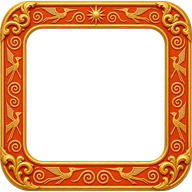
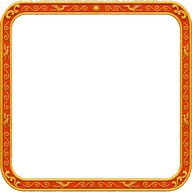
feat(art): bóng 9 ô trống, khung phẩm Cam mới
Claude-Session: https://claude.ai/code/session_013ZWRLisXAVjT81wrFGu3qT

diff --git a/src/app/game/profile/HeroDetail.tsx b/src/app/game/profile/HeroDetail.tsx
@@ -35,7 +35,7 @@ import {
   type ProfileAction,
   type SkillDef,
 } from "@/core";
-import { GearIcon, SetEmblem } from "../art/gear";
+import { EmptySlotIcon, GearIcon, SetEmblem } from "../art/gear";
 import { ElementIcon, ELEMENT_COLOR, ProfessionIcon } from "../art/icons";
 import { ProfileArt } from "../art/ProfileArt";
 import { ELEMENT_NAME, gearText, PROFESSION_NAME, skillText, SLOT_NAME, TIER_CLASS } from "../battle/labels";
@@ -248,7 +248,6 @@ function TeamControl({
 export function GearSlotButton({
   slot,
   item,
-  element,
   profession,
   selected,
   onClick,
@@ -271,14 +270,18 @@ export function GearSlotButton({
       title={item ? gearText(item) : `${SLOT_NAME[slot]}: trống`}
       className={`gear-slot relative flex items-center justify-center rounded-lg p-0.5 ${item ? "" : "is-empty"} ${selected ? "is-selected" : ""}`}
     >
-      <GearIcon
-        slot={slot}
-        element={item?.element ?? element}
-        tier={item?.tier}
-        set={item?.set}
-        profession={slot === "vuKhi" ? (item?.profession ?? profession) : undefined}
-        className={`${size} ${item ? "" : "opacity-30 grayscale"}`}
-      />
+      {item ? (
+        <GearIcon
+          slot={slot}
+          element={item.element}
+          tier={item.tier}
+          set={item.set}
+          profession={slot === "vuKhi" ? (item.profession ?? profession) : undefined}
+          className={size}
+        />
+      ) : (
+        <EmptySlotIcon slot={slot} className={size} />
+      )}
       {!item && <PlusGlyph className="absolute right-1 bottom-1 size-3.5 text-[var(--bk-soft)]" />}
     </button>
   );

diff --git a/src/app/demo/art/page.tsx b/src/app/demo/art/page.tsx
@@ -2,7 +2,7 @@ import type { Metadata } from "next";
 import Link from "next/link";
 import { ELEMENTS, GEAR_SETS, GEAR_SLOTS, mainCharacter, characterSkills, PROFESSIONS, professionSkills, STARTER_COMPANIONS, TIERS, TILE_KINDS } from "@/core";
 import { ELEMENT_NAME, PROFESSION_NAME, SLOT_NAME, SPECIAL_NAME, TIER_COLOR_NAME, TILE_NAME } from "@/app/game/battle/labels";
-import { GearIcon, SetEmblem } from "@/app/game/art/gear";
+import { EmptySlotIcon, GearIcon, SetEmblem } from "@/app/game/art/gear";
 import { ElementIcon, FoodIcon, LeaderFlag, ProfessionIcon, ShieldIcon } from "@/app/game/art/icons";
 import { Portrait } from "@/app/game/art/portraits";
 import { SkillIcon } from "@/app/game/art/skills";
@@ -168,6 +168,18 @@ export default function ArtPage() {
                   <GearIcon key={s} slot={s} element="moc" tier={t} set="coLau" className="mx-auto size-12" />
                 ))}
               </div>
+            ))}
+          </div>
+        </section>
+
+        <section className="space-y-2">
+          <h2 className="font-semibold">Ô trống (chưa mặc)</h2>
+          <div className="grid grid-cols-9 gap-2 text-xs">
+            {GEAR_SLOTS.map((s) => (
+              <figure key={s} className="flex flex-col items-center gap-1">
+                <EmptySlotIcon slot={s} className="size-12" />
+                <figcaption className="opacity-70">{SLOT_NAME[s]}</figcaption>
+              </figure>
             ))}
           </div>
         </section>

diff --git a/src/app/game/battle/GearPanel.tsx b/src/app/game/battle/GearPanel.tsx
@@ -31,7 +31,7 @@ import {
   type ProfileAction,
   type Tier,
 } from "@/core";
-import { GearIcon, SetEmblem } from "../art/gear";
+import { EmptySlotIcon, GearIcon, SetEmblem } from "../art/gear";
 import {
   ELEMENT_NAME,
   gearText,
@@ -239,16 +239,20 @@ export default function GearPanel({
                   ? `${gearText(item)} · bấm để tháo`
                   : `${SLOT_NAME[slot]}: trống`
               }
-              className={`rounded ${item ? "" : "opacity-30"} disabled:cursor-default`}
+              className="rounded disabled:cursor-default"
             >
-              <GearIcon
-                slot={slot}
-                element={item?.element ?? elementOf(profile, character)}
-                tier={item?.tier}
-                set={item?.set}
-                profession={slot === "vuKhi" ? profession : undefined}
-                className="size-9"
-              />
+              {item ? (
+                <GearIcon
+                  slot={slot}
+                  element={item.element}
+                  tier={item.tier}
+                  set={item.set}
+                  profession={slot === "vuKhi" ? profession : undefined}
+                  className="size-9"
+                />
+              ) : (
+                <EmptySlotIcon slot={slot} className="size-9" />
+              )}
             </button>
           );
         })}

diff --git a/src/app/game/art/gear.tsx b/src/app/game/art/gear.tsx
@@ -214,6 +214,21 @@ export function gearArtSrc(slot: GearSlot, set: string | undefined, profession?:
   return slot === "vuKhi" ? `/art/gear/${set}/vuKhi-${profession ?? "tuongSi"}.webp` : `/art/gear/${set}/${slot}.webp`;
 }
 
+/** Bóng ô trống (nét đồng mờ) ở public/art/gear/empty/<ô>.webp, 128 px. */
+export function emptySlotSrc(slot: GearSlot): string {
+  return `/art/gear/empty/${slot}.webp`;
+}
+
+/** Ô chưa mặc đồ: nền ô tối + bóng nét đồng của loại món, cố ý mờ để không lẫn với món thật. */
+export function EmptySlotIcon({ slot, className }: { slot: GearSlot; className?: string }) {
+  return (
+    <svg viewBox="0 0 48 48" className={className} aria-hidden>
+      <rect x={1.5} y={1.5} width={45} height={45} rx={8} fill="#2b211b" />
+      <image href={emptySlotSrc(slot)} x={7} y={7} width={34} height={34} opacity={0.75} preserveAspectRatio="xMidYMid meet" />
+    </svg>
+  );
+}
+
 /** Huy hiệu tròn của bộ ở public/art/gear/sets/<bộ>.webp (128 px). */
 export function setEmblemSrc(set: string): string | undefined {
   return set in SET_ART ? `/art/gear/sets/${set}.webp` : undefined;

diff --git a/tests/game/gear-art.test.ts b/tests/game/gear-art.test.ts
@@ -2,7 +2,7 @@ import assert from "node:assert/strict";
 import { existsSync } from "node:fs";
 import { test } from "node:test";
 import { GEAR_SETS, GEAR_SLOTS, PROFESSIONS, TIERS } from "../../src/core";
-import { gearArtSrc, setEmblemSrc, tierFrameSrc } from "../../src/app/game/art/gear";
+import { emptySlotSrc, gearArtSrc, setEmblemSrc, tierFrameSrc } from "../../src/app/game/art/gear";
 
 for (const [set, name] of [
   ["coLau", "Cờ Lau"],
@@ -36,4 +36,8 @@ test("mỗi bộ có huy hiệu", () => {
     assert.ok(src && existsSync(`public${src}`), set.id);
   }
   assert.equal(setEmblemSrc("khongCo"), undefined);
+});
+
+test("mỗi ô có bóng ô trống", () => {
+  for (const slot of GEAR_SLOTS) assert.ok(existsSync(`public${emptySlotSrc(slot)}`), slot);
 });

diff --git a/docs/06-art/prompts/trang-bi.md b/docs/06-art/prompts/trang-bi.md
@@ -1,7 +1,7 @@
 # Prompt trang bị
 
 > Cập nhật: 03/11/2026
-> Trạng thái: **DRAFT** — đã có 5 khung phẩm (mục 4) và đủ 16 món bộ Cờ Lau (mục 5), đủ 16 món bộ Hoa Lư, đủ 16 món bộ Đồng Cổ, 3 huy hiệu bộ (mục 6), 04/11/2026; các hình khác chưa có ảnh; thay mục 4 cũ của [Prompt đồ họa](do-hoa.md#4-trang-bị) (nét phẳng, 6 vũ khí).
+> Trạng thái: **DRAFT** — đã có 5 khung phẩm (mục 4) và đủ 16 món bộ Cờ Lau (mục 5), đủ 16 món bộ Hoa Lư, đủ 16 món bộ Đồng Cổ, 3 huy hiệu bộ (mục 6), 9 bóng ô trống (mục 7), 04/11/2026; các hình khác chưa có ảnh; thay mục 4 cũ của [Prompt đồ họa](do-hoa.md#4-trang-bị) (nét phẳng, 6 vũ khí).
 
 Prompt ráp sẵn cho hệ thống trang bị: hình từng món theo **9 ô** và **3 bộ**, vũ khí cho đủ **8 nghề**, khung **5 phẩm**, huy hiệu bộ, bóng ô trống và hai biểu tượng thao tác. Luật trang bị (chỉ số, thưởng bộ, phẩm, ghép) ở [Trang bị](../../04-equipment/trang-bi.md); danh sách lấy từ code ngày 03/11/2026 (`GEAR_SLOTS`, `GEAR_SETS`, `TIERS` trong `src/core/gear/gear.ts`, `PROFESSIONS` trong `src/core/battle/rules.ts`). Phong cách theo [Prompt biểu tượng kỹ năng](icon-ky-nang.md) để món đồ và kỹ năng nằm cạnh nhau không lệch nhau. Giải thích bằng tiếng Việt, prompt bằng tiếng Anh.
 
